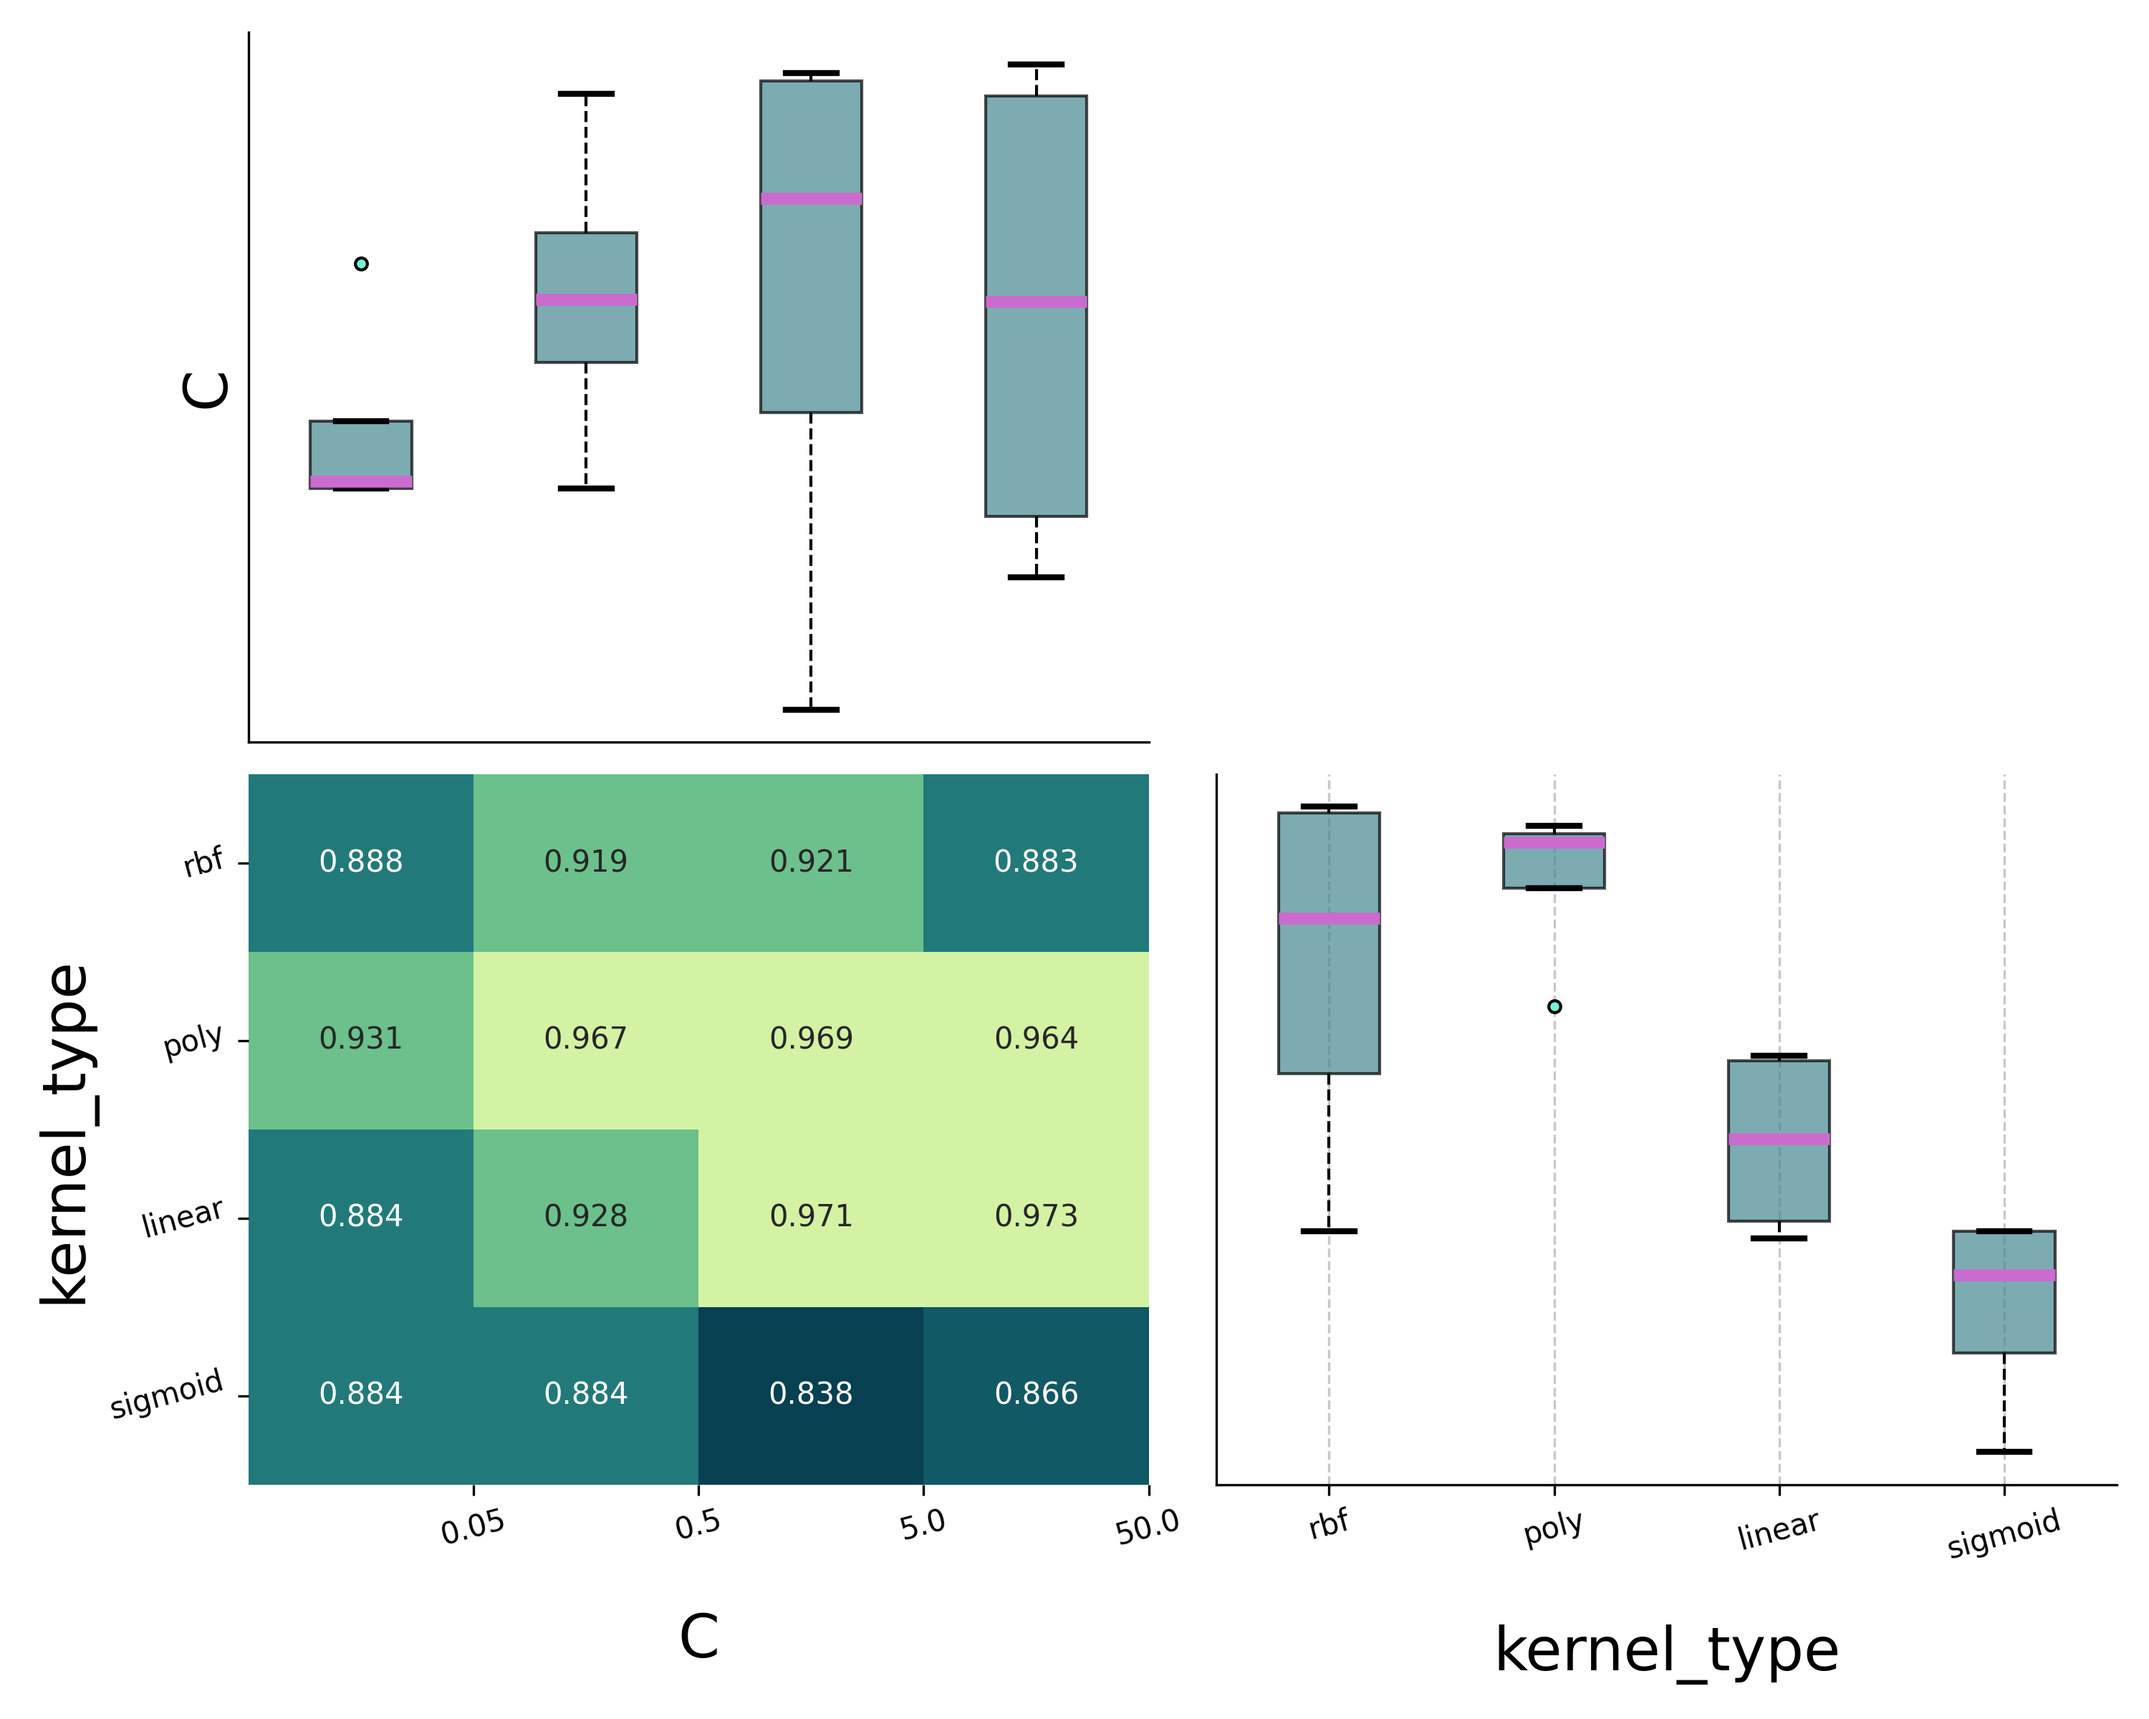
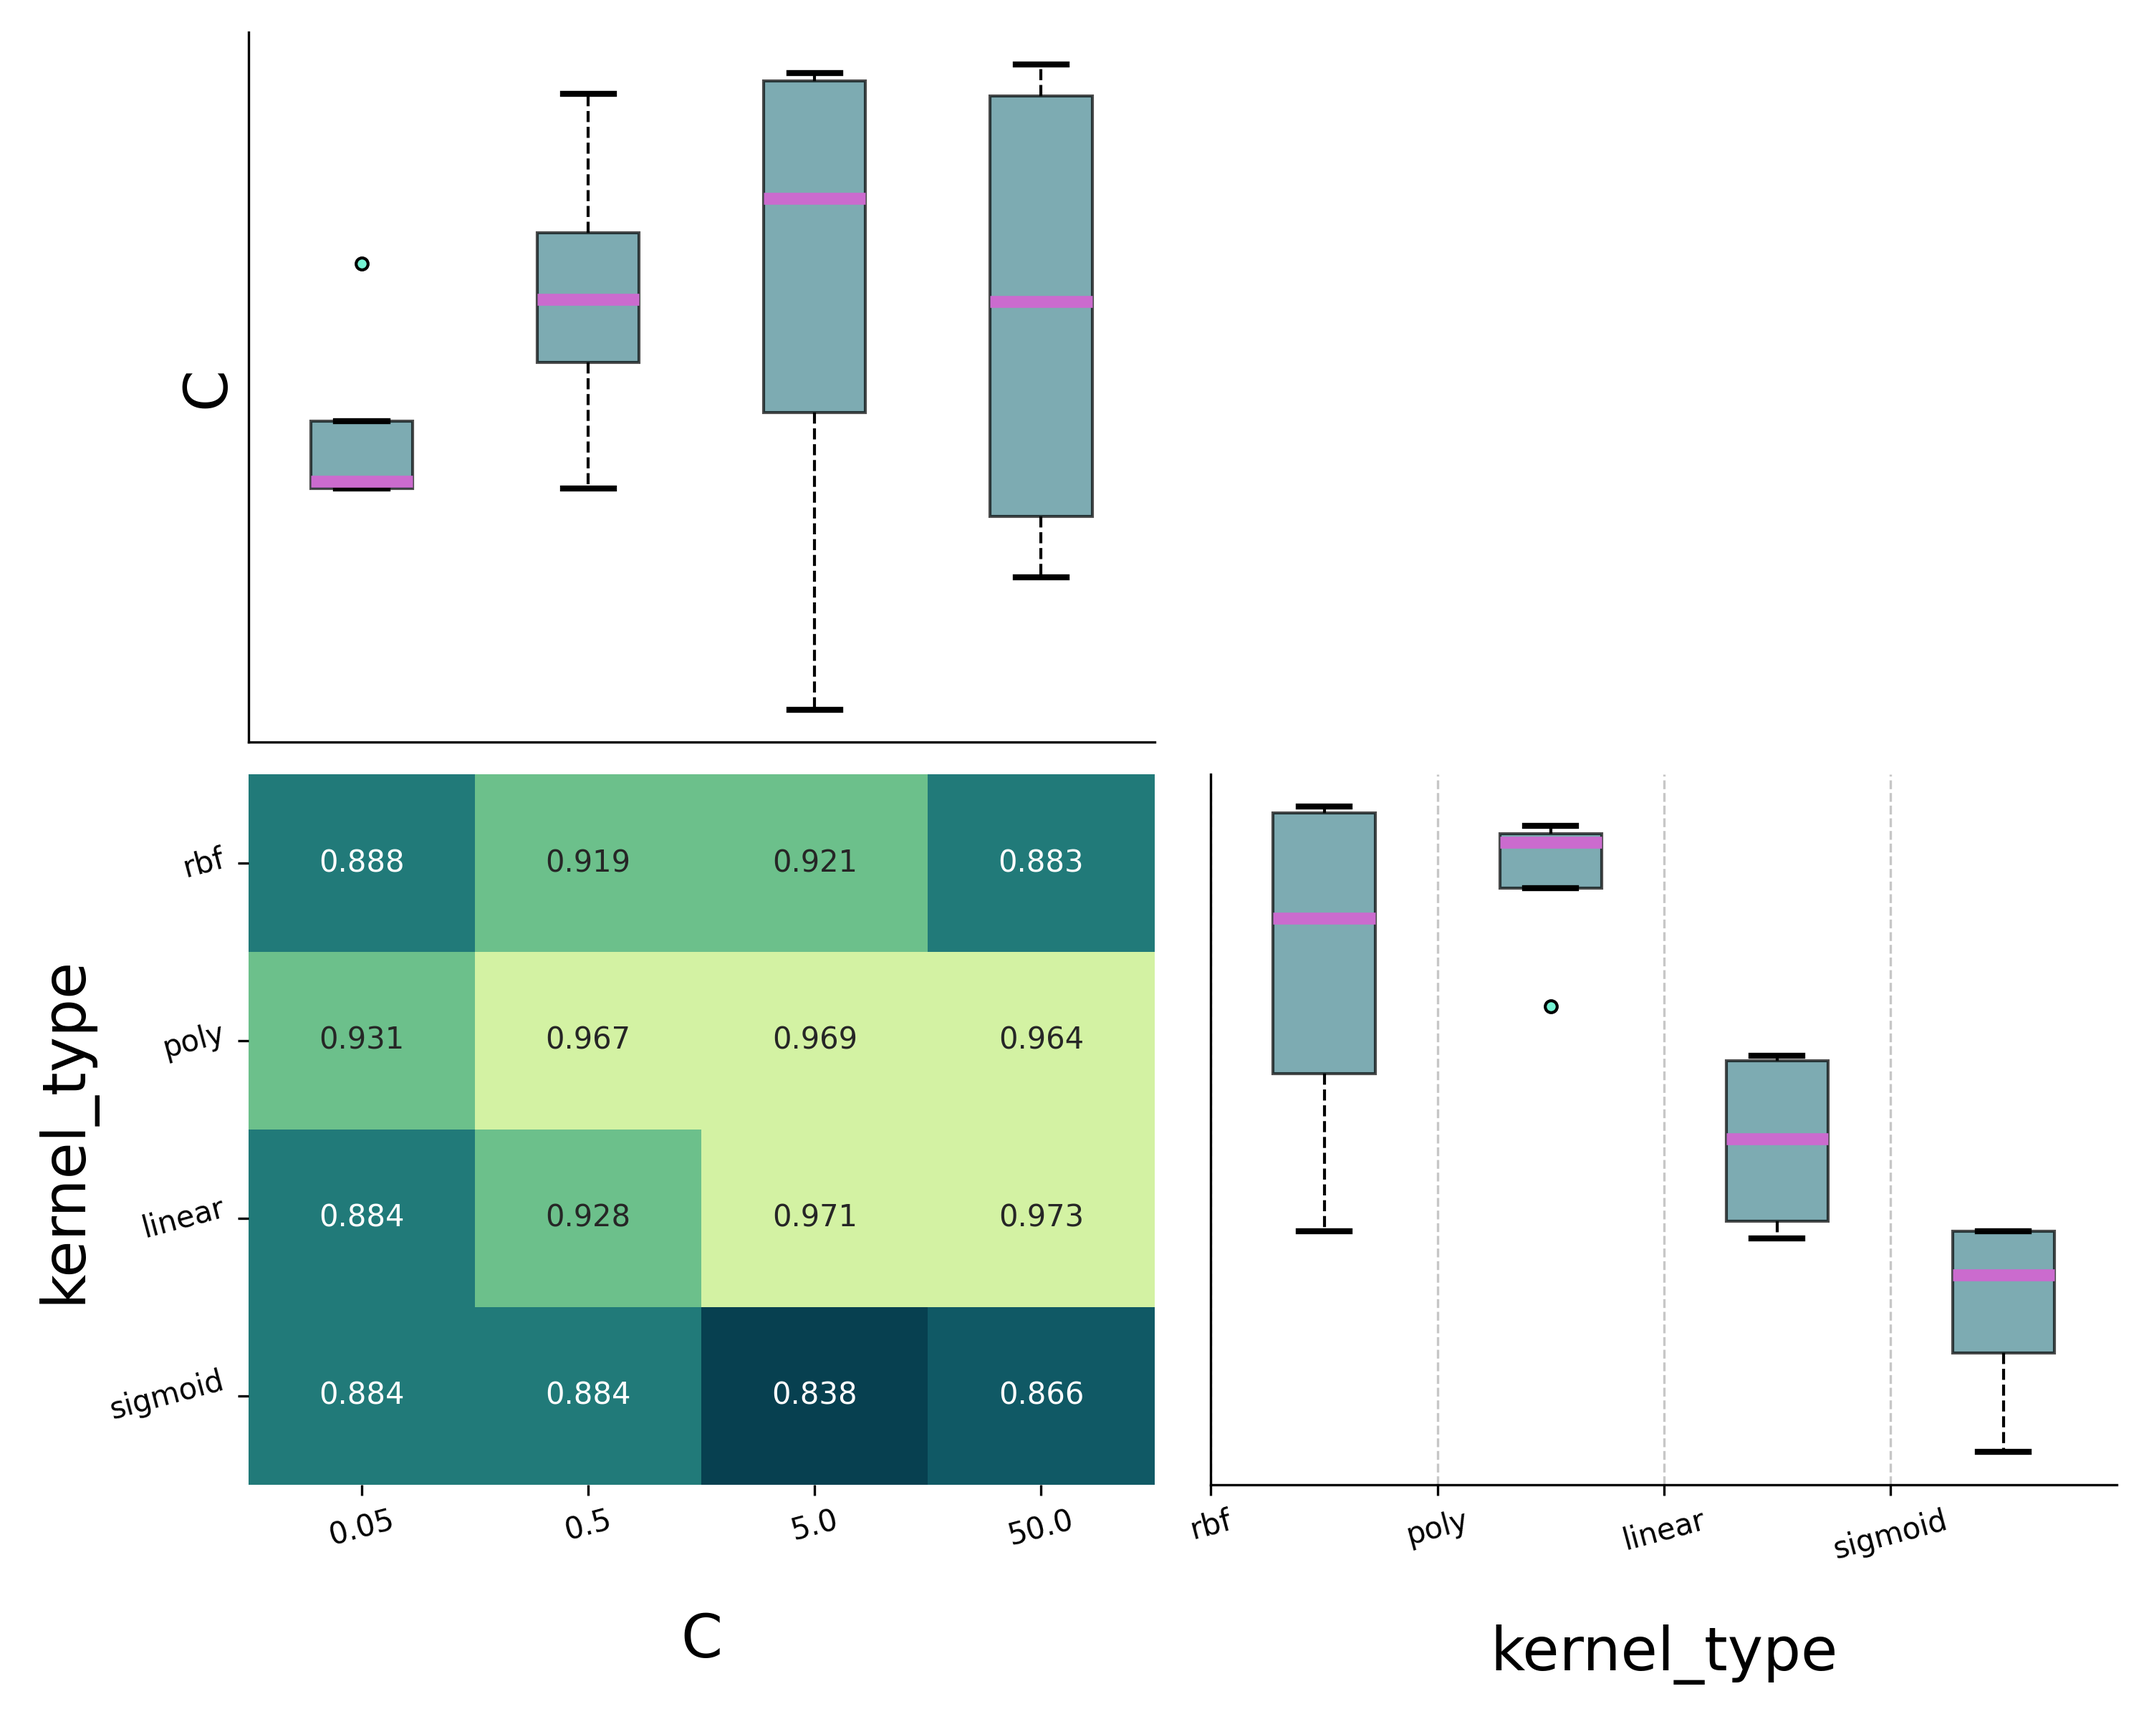
update interaction effect heatmap xticks

diff --git a/work2/tools/analysis/statistical_analysis_tools.py b/work2/tools/analysis/statistical_analysis_tools.py
@@ -264,7 +264,7 @@ def plot_interactions(df, col_names):
             if pd.api.types.is_numeric_dtype(df[col_names[j]])
             else df[col_names[j]].unique()
         )
-        axes[-1, j].set_xticks(np.arange(len(unique_vals)) + 1)
+        axes[-1, j].set_xticks(np.arange(len(unique_vals)) + 0.5)
         axes[-1, j].set_xticklabels(unique_vals, rotation=15)
         axes[-1, j].set_xlabel(col_names[j], fontsize=20, labelpad=20)
 
